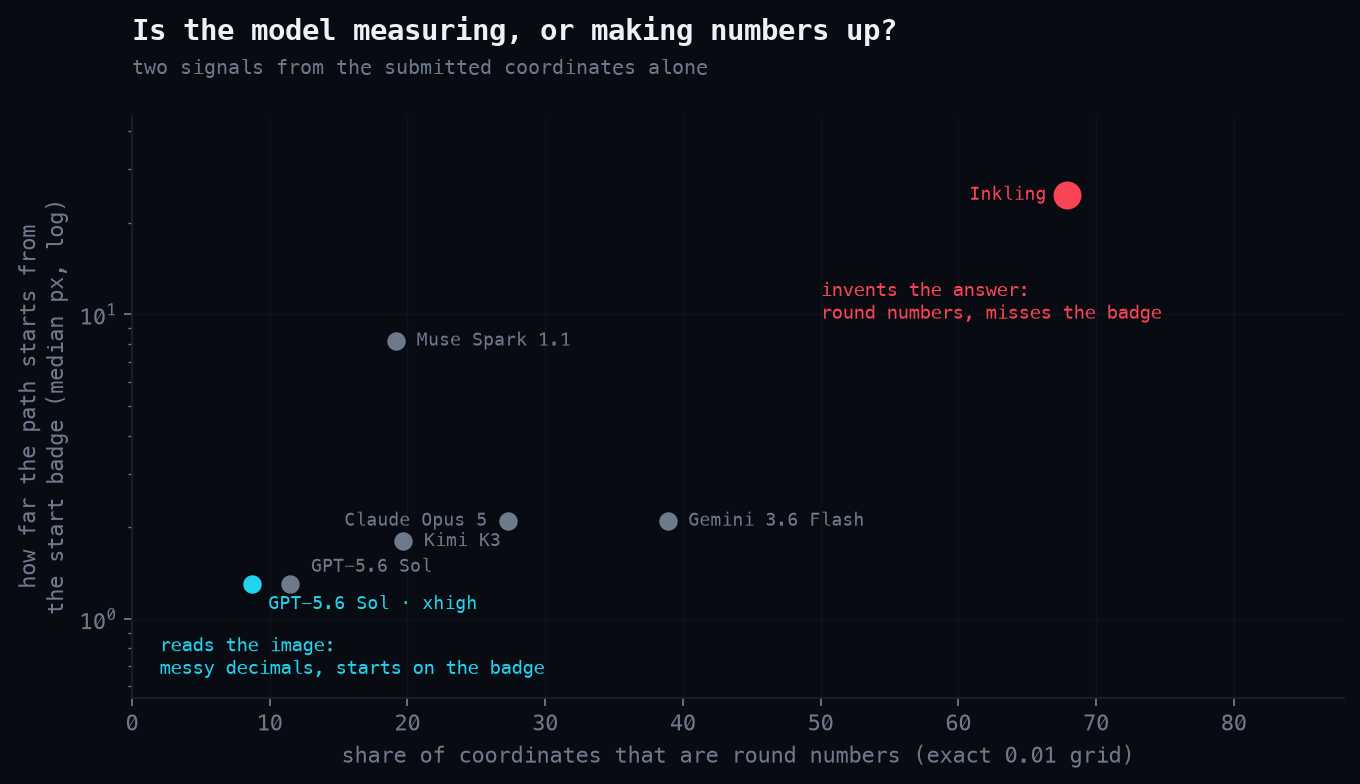
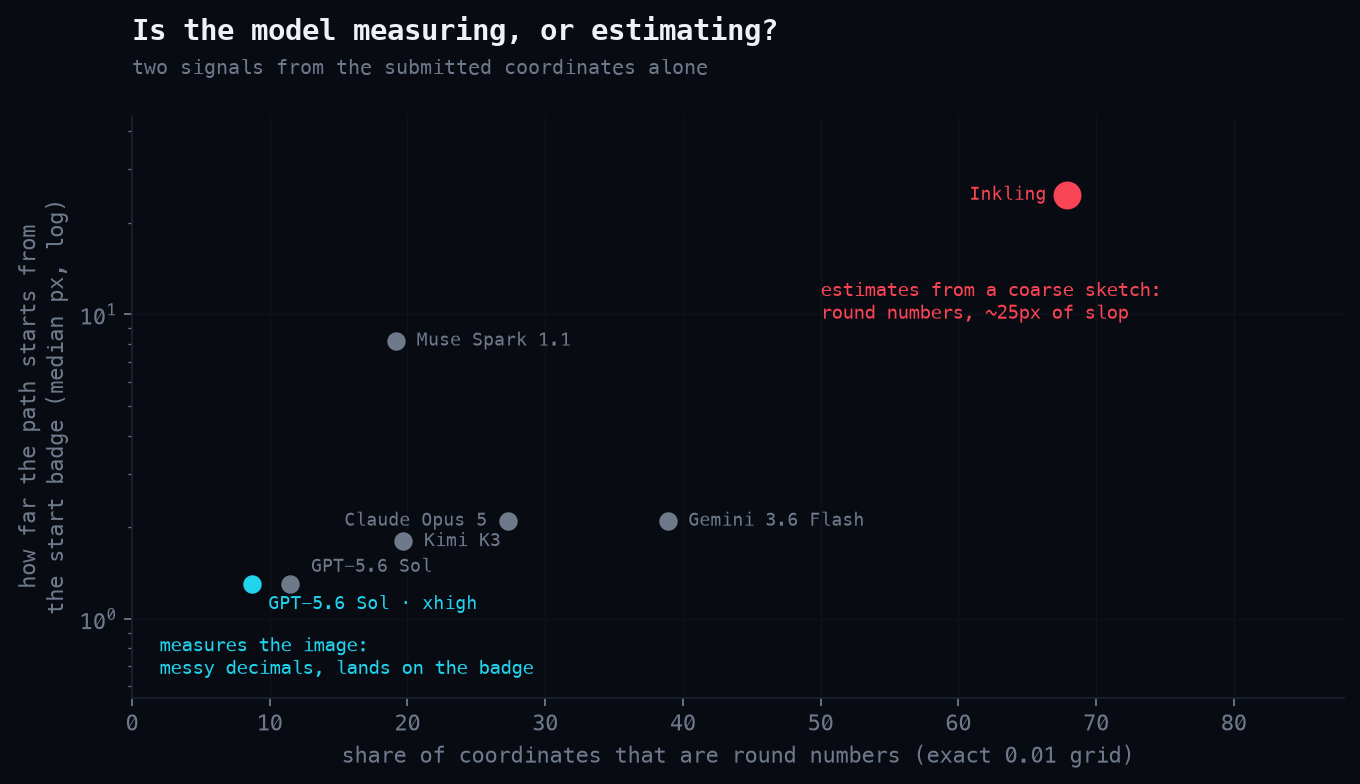
Recalibrate the Inkling interpretation; demote the blind control
The 'not looking at the maze' framing was an overstatement the data itself
contradicts: 25px median badge error on an ~800px canvas is NEAR the badge,
and the blind control shows Inkling's route progress drops 0.029 -> 0.000
without the image — it demonstrably uses the picture. Reframed everywhere as
coarse, quantized perception: it sees roughly where things are but reports
positions from a low-fidelity internal sketch (0.01-grid rounding, ~25px
slop), fatal at this task's tolerances. The resolution ablation sharpens
rather than contradicts this: extra input detail does not change the fidelity
of its reports.

Vision validity moved to the end of the ablations as an explicitly-labelled
control, shortened; README bullet demoted likewise. It also now carries the
load it actually bears: licensing the Inkling reading.

Also: the regression plot embed in STUDY had silently no-op'd (str.replace
anchor mismatch, no error raised). Re-embedded with an assertion; edit
scripts now verify their own replacements landed.

Changed region(s): [[0.6176, 0.3673, 0.8647, 0.4286], [0.1235, 0.7959, 0.4015, 0.8571], [0.4324, 0.0306, 0.6485, 0.0612]]

diff --git a/scripts/make_figures.py b/scripts/make_figures.py
@@ -346,16 +346,16 @@ def fig_fingerprints():
         dx, dy, ha = nudge[p]
         ax.text(snap[p] + dx, loc[p] * dy, NAMES[p], fontsize=8, color=colr,
                 va="center", ha=ha)
-    ax.text(2, 0.66, "reads the image:\nmessy decimals, starts on the badge",
+    ax.text(2, 0.66, "measures the image:\nmessy decimals, lands on the badge",
             color=CYAN, fontsize=8.5)
-    ax.text(50, 13, "invents the answer:\nround numbers, misses the badge",
+    ax.text(50, 13, "estimates from a coarse sketch:\nround numbers, ~25px of slop",
             color=RED, fontsize=8.5, va="top")
     ax.set_xlabel("share of coordinates that are round numbers (exact 0.01 grid)")
     ax.set_ylabel("how far the path starts from\nthe start badge (median px, log)")
     ax.set_yscale("log")
     ax.set_xlim(0, 88)
     ax.set_ylim(0.55, 45)
-    _frame(ax, "Is the model measuring, or making numbers up?",
+    _frame(ax, "Is the model measuring, or estimating?",
            "two signals from the submitted coordinates alone")
     save(fig, "09-fingerprints.png")
 

diff --git a/STUDY.md b/STUDY.md
@@ -223,6 +223,8 @@ taxonomy, which is a sanity check and not a measured accuracy.
 A logistic regression of per-attempt success on the measured task features,
 standardized, with task-clustered bootstrap CIs:
 
+![Regression](results/figures/12-regression.png)
+
 | Feature | All models | GPT @ xhigh | Gemini |
 |---|---|---|---|
 | normalized length | +0.18 | −0.19 | +0.62 |
@@ -251,22 +253,6 @@ length in favour of turns and branching.
 
 Every ablation draws from `dev-eval-100`, so each attempt is paired with the
 same task's main-run attempts.
-
-### Vision validity — is it really reading *this* image?
-
-**The intuition:** a model could score above zero without doing the task —
-priors about where goals sit, geometry that "usually works." A blank canvas
-measures that floor; *another maze's* image is the stricter probe, catching a
-model that uses generic vision but not this picture.
-
-25 tasks × 2 trials × 7 models × {blank canvas, another task's image}:
-**0 passes in 700 scored attempts**, route progress ~0.000 throughout. Blind
-failure is *total, not degraded* — 97% of attempts never begin on the start
-badge, and **zero** reach a wall, because they never get far enough to collide.
-
-This is a methods check rather than a discovery, but it is load-bearing: with
-no prior-guessable floor, every leaderboard number is attributable to reading
-the specific image, and Inkling's 0.0% and Muse's 6.0% are real measurements.
 
 ### Style vs topology
 
@@ -307,11 +293,13 @@ binding constraint is perceptual acuity rather than deliberation.
 
 Halving resolution hurts nearly everyone (Opus 18→6%, GPT-medium 54→32%). Two
 exceptions carry information: Gemini is flat across all three scales, and
-**Inkling is 0% at every resolution** — which closes the loop on its diagnosis.
-Its coordinate fingerprints (§8) show 68% of its outputs on an exact 0.01 grid
-and 25px median start-badge misses, i.e. round numbers from a mental sketch;
-this ablation rules out the charitable alternative that it simply couldn't see
-fine detail. More pixels change nothing because it was not using the pixels.
+**Inkling is 0% at every resolution** — which sharpens its diagnosis. Its
+fingerprints (§8) show coarse, grid-quantized position reports with ~25px of
+slop. If that coarseness were an *input* limitation — detail lost in the
+encoder — doubling the resolution should recover some of it. It recovers
+nothing. The bottleneck is not how much detail reaches the model but the
+fidelity at which it reports what it perceives: the sketch stays coarse no
+matter how sharp the input.
 
 ### Closed-loop feedback
 
@@ -363,26 +351,44 @@ normalization step and does nothing for corridor tracing.
 At GPT-xhigh the effect vanishes entirely (0pp) — enough reasoning establishes
 scale from the image alone, making the disclosure redundant.
 
+### Vision validity (control)
+
+A methods check rather than a finding, reported last for completeness: 25
+tasks × 2 trials × 7 models with a blank canvas or another task's image
+produced **0 passes in 700 attempts**, route progress ~0.000 — 97% of blind
+attempts never even start on the badge. There is no prior-guessable floor;
+every score in this study comes from reading the specific image. (This is
+also what licenses the Inkling reading in §8: with the image its route
+progress is 0.029, without it 0.000, so it demonstrably uses the picture —
+just coarsely.)
+
 ---
 
 ## 8. Fingerprints: measuring vs. writing round numbers
 
-**The intuition:** you can tell whether someone measured something by looking
-at the numbers they wrote down. Real measurements are messy — a model that
-located the badge in the image reports it at (0.9184, 0.1507). A model
-*imagining* a plausible maze reports (0.90, 0.15), because round numbers are
-what invention produces. The second signature is even simpler: the start badge
-is drawn at a known place, so the distance between it and the first point of
-the submitted path is a direct test of whether the model found it. Neither
-signal involves routing at all — together they separate "perceived the image"
-from "wrote plausible geometry" using nothing but the submitted coordinates.
+**The intuition:** you can tell how someone obtained a number by looking at
+the digits. A measurement comes out messy — a model that located the badge in
+the image reports it at (0.9184, 0.1507). An *estimate* comes out round —
+(0.90, 0.15) — because rounding is what a coarse internal representation
+produces. The second signature is simpler: the start badge is drawn at a known
+place, so the distance from it to the path's first point measures how
+precisely the model registered what it saw. Neither signal involves routing —
+together they place each model on a spectrum from pixel-level measurement to
+coarse, quantized estimation.
 
 ![Fingerprints](results/figures/09-fingerprints.png)
 
-Two signatures separate a model reading the image from one emitting plausible
-geometry. **Inkling places 67.9% of its coordinates on an exact 0.01 grid and
-misses the start badge by 25 pixels at the median** — it is not looking at the
-maze. GPT is the mirror image: irregular coordinates, 1.3px badge accuracy.
+**Inkling places 67.9% of its coordinates on an exact 0.01 grid and misses
+the start badge by 25 pixels at the median.** To be precise about what that
+means: it *does* perceive the maze — 25px on an ~800px canvas is near the
+badge, not across the image, and the blind control confirms it (route progress
+0.029 with the image, 0.000 without). What it does not do is measure. Its
+coordinates come from a coarse, quantized internal sketch — positions rounded
+to a 0.01 grid — and on a task whose acceptance radii and corridor widths are
+tens of pixels, 25px of systematic slop fails every time. The gap between
+"sees roughly where things are" and "can report where they are precisely" is
+the whole distance between Inkling and the scoreboard. GPT is the other end of
+the spectrum: irregular coordinates, 1.3px badge accuracy.
 
 A subtler separation: **Gemini localizes better than GPT** (2.1px median, 4px
 at p90 — a tighter tail than GPT's 15px) yet scores half as well. Finding where

diff --git a/README.md b/README.md
@@ -42,15 +42,15 @@ Findings that survived the ablations (details and caveats in
 - **Showing a model its own mistake makes it worse.** After a failed attempt,
   seeing its own path with the collision marked beats a blind retry for *no*
   model; for mid-tier models it costs up to 24 points.
-- **Blind control: 0 passes in 700 attempts.** With a blank or mismatched
-  image, models don't merely fail — route progress is ~0.000. Every score
-  above comes from reading the specific image.
 - **Style is a per-maze difficulty axis.** Identical mazes re-rendered in five
   styles: style's average effect is ~0, but the per-maze swing is 24pp.
 - **Each model fails differently** (per-trace classification of all 4,140
   failures): GPT runs out of corridor *width*, Gemini and Claude drive through
   walls, Kimi announces its path is approximate and submits anyway, Inkling
-  never finds the start badge.
+  perceives the layout only coarsely — its reported positions are quantized to
+  a 0.01 grid with ~25px of slop, fatal at this task's tolerances.
+- Control: with a blank or wrong image, 0 passes in 700 attempts — the scores
+  come from reading the specific picture.
 
 ## Quickstart
 

diff --git a/results/ablations.md b/results/ablations.md
@@ -52,9 +52,10 @@ representation — in which case no amount of reasoning can recover it. Resendin
 the identical maze at 2× and 0.5× isolates that channel: if a model improves
 with pixels but not with thinking (Kimi), its ceiling was perceptual acuity all
 along. And a model stuck at zero *regardless of resolution* (Inkling) cannot
-blame the encoder — its failure is upstream of pixel budget, which is exactly
-what its coordinate fingerprints (0.01-grid snapping, 25px badge misses)
-independently suggest: it is not reading the image at any resolution.
+blame the encoder: its fingerprints (0.01-grid snapping, ~25px badge slop)
+show it perceives the layout coarsely, and no amount of extra input detail
+changes the fidelity at which it reports positions. The bottleneck is
+report precision, not pixel availability.
 
 `evals/ablation-25.txt`, k=2, 6 legs, 600 attempts. Send-time rescale only;
 mask and ground truth untouched, so scoring is identical.
